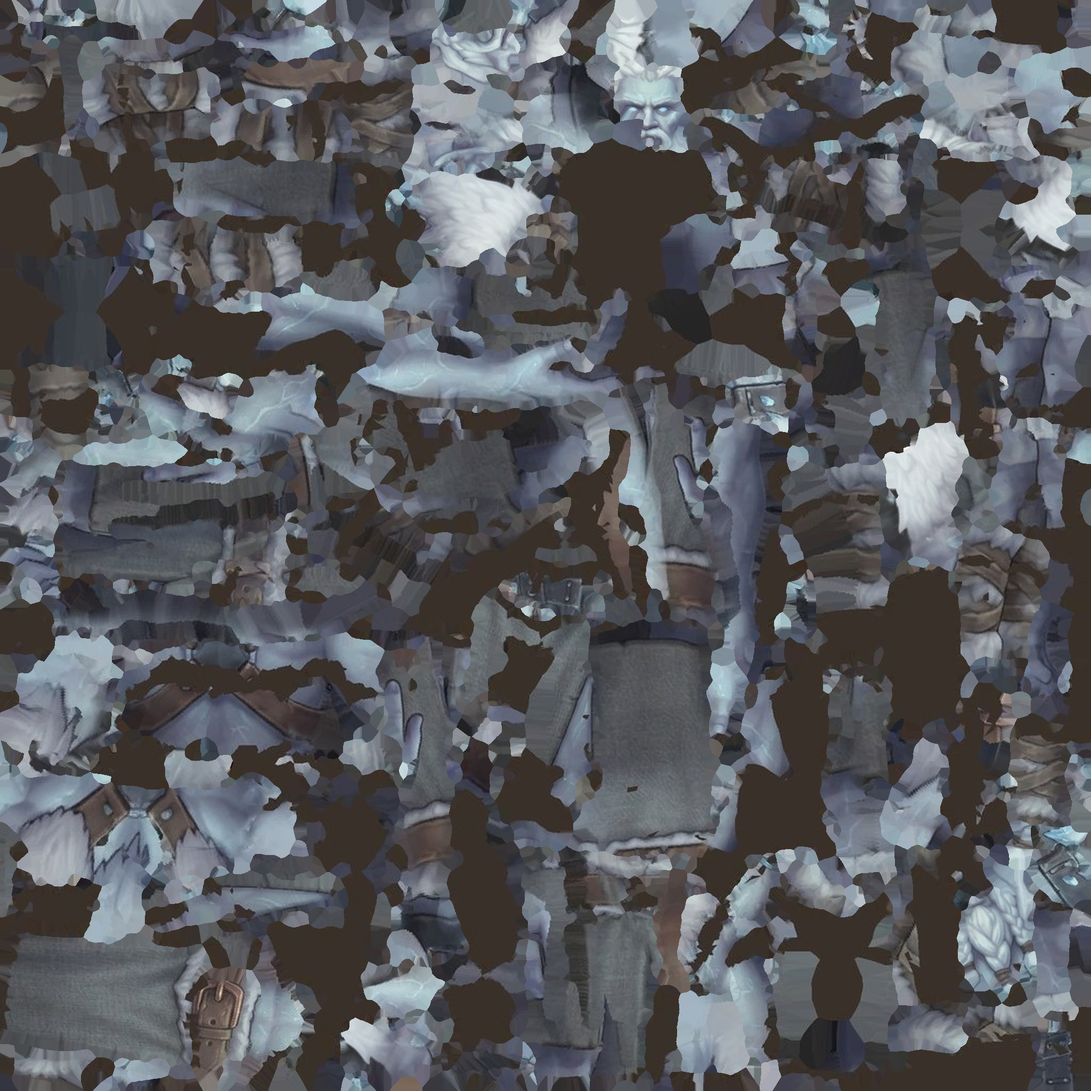
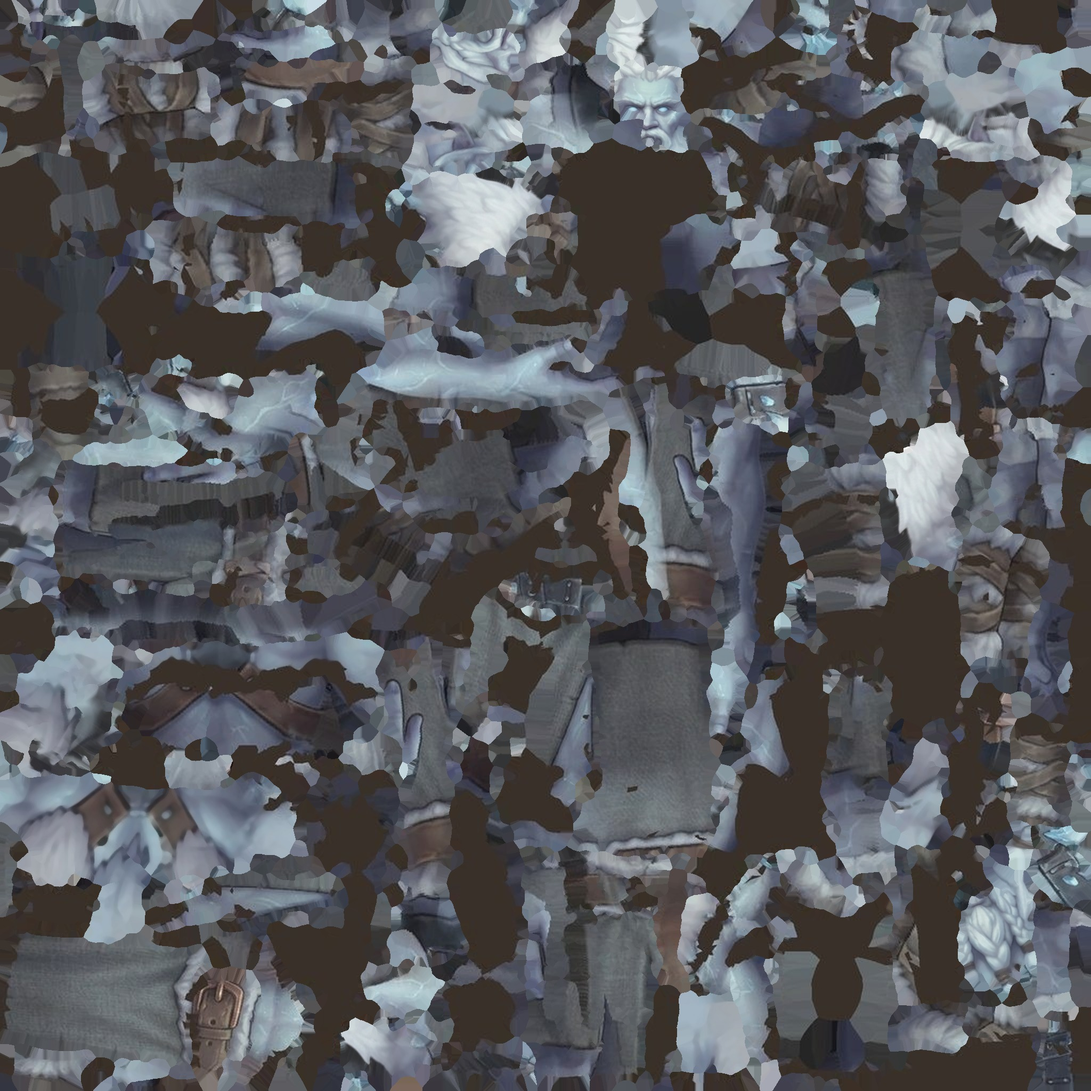
Rostos refinados (rodada 1b): testa e laterais sem manchas, orcs incluídos
- rosto_frontal.py: a vista de frente cobre até a testa inclinada; laterais e nuca recebem pele lisa
  (mediana larga) em vez dos pontos soltos da assadura; transição mais suave; acha a malha do orc
- orc M e F com rosto refeito; textura 2048

Claude-Session: https://claude.ai/code/session_013wKLGHvYun6wq6jVkxa3n2

diff --git a/cliente-godot/ferramentas/racas/rosto_frontal.py b/cliente-godot/ferramentas/racas/rosto_frontal.py
@@ -33,7 +33,9 @@ def amostra(img, x, y):  # bilinear
     x0 = x.astype(int); y0 = y.astype(int); fx = (x - x0)[:, None]; fy = (y - y0)[:, None]
     return (img[y0, x0] * (1 - fx) * (1 - fy) + img[y0, x0 + 1] * fx * (1 - fy) + img[y0 + 1, x0] * (1 - fx) * fy + img[y0 + 1, x0 + 1] * fx * fy)
 
-m = trimesh.load(f'/home/claude/racas/saida/{chave}_tex.glb', force='mesh', process=False)
+import os
+_orig = next(c for c in [f'/home/claude/racas/saida/{chave}_tex.glb', f'/home/claude/orc/{chave}_tex.glb'] if os.path.exists(c))
+m = trimesh.load(_orig, force='mesh', process=False)
 V = m.vertices.astype(np.float64); Fc = m.faces; N = m.vertex_normals; T = m.visual.uv
 lo, hi = V.min(0), V.max(0); alt = hi[1] - lo[1]
 cor, msk = recorte(Image.open(f'{AQUI}ferramentas/racas/fontes/{chave}_frente.jpg'))
@@ -66,7 +68,7 @@ for f in Fc[fy > lo[1] + 0.80 * alt]:
     u = (pos[:, 0] - lo[0]) / (hi[0] - lo[0]); t = (hi[1] - pos[:, 1]) / alt
     c = amostra(cor, u * (W - 1), t * (H - 1))
     # peso: frente manda; some de lado; borda suave no pescoço
-    w = np.clip((nor[:, 2] - 0.05) / 0.35, 0, 1) * np.clip((pos[:, 1] - (lo[1] + 0.80 * alt)) / (0.06 * alt), 0, 1)
+    w = np.clip((nor[:, 2] + 0.02) / 0.40, 0, 1) * np.clip((pos[:, 1] - (lo[1] + 0.80 * alt)) / (0.06 * alt), 0, 1)
     yy = (gy[k] - 0.5).astype(int); xx = (gx[k] - 0.5).astype(int)
     ilha[yy, xx] = True
     sel = w > peso[yy, xx]
@@ -81,7 +83,12 @@ if mancha.any():
     ok = ilha & ~mancha
     ii = ndimage.distance_transform_edt(~ok, return_distances=False, return_indices=True)
     base[mancha] = base[ii[0][mancha], ii[1][mancha]]
-w3 = ndimage.gaussian_filter(peso, 0.8)[:, :, None]
+# laterais e nuca: a assadura tem pontos escuros/claros soltos; troca pela mediana larga (tira o ponto, mantém
+# a cor e as mechas grandes), só dentro da cabeça e só onde a frente não manda
+lisa = np.stack([ndimage.median_filter(base[:, :, c], size=11) for c in range(3)], 2)
+k_lado = (ilha & (peso < 0.9))[:, :, None] * (1 - np.clip(peso, 0, 1))[:, :, None] * 0.85
+base = base * (1 - k_lado) + lisa * k_lado
+w3 = ndimage.gaussian_filter(peso, 1.6)[:, :, None]
 saida = base * (1 - w3) + novo * w3
 # costura sem risco escuro: todas as ilhas da malha ganham 6 px de borda com a própria cor (o filtro da textura
 # pegava o fundo escuro entre as ilhas e desenhava linhas finas no rosto)

diff --git a/cliente-godot/docs/ROTEIRO_NOITE.md b/cliente-godot/docs/ROTEIRO_NOITE.md
@@ -113,6 +113,7 @@ dividir em partes no Diário e seguir para o próximo na rodada seguinte.
 
 ## Madrugada 26/11 (agenda aprovada por Robson às 23:24)
 - [x] Rodada 1 (23:30) — rostos refeitos a partir da imagem de frente (ferramentas/racas/rosto_frontal.py): humano, elfo, elfo sombrio e gigante, nos dois gêneros; textura 2048 só nesses corpos; costuras sem risco escuro. Orc e anão ficam com a textura atual (vêm de outro processo).
+- [x] Rodada 1b (00:10) — rostos refinados: testa e linha do cabelo sem manchas (frente vale até a testa inclinada), laterais da cabeça com pele lisa (mediana), transição suave; orcs M e F também refeitos. Anões ficam (modelos de outra origem, sem a malha da assadura).
 - [ ] Rodada 2 (01:00) — mão no peito: anão (martelo, cajado, arco) e orc/gigante na puxada do arco
 - [ ] Rodada 3 (02:30) — espada do sombrio na cabeça; machado do orc perto do rosto na guarda
 - [ ] Rodada 4 (04:00) — pele esticando (ombro no arco, axila, virilha); colunas de Umbraval no ultra
